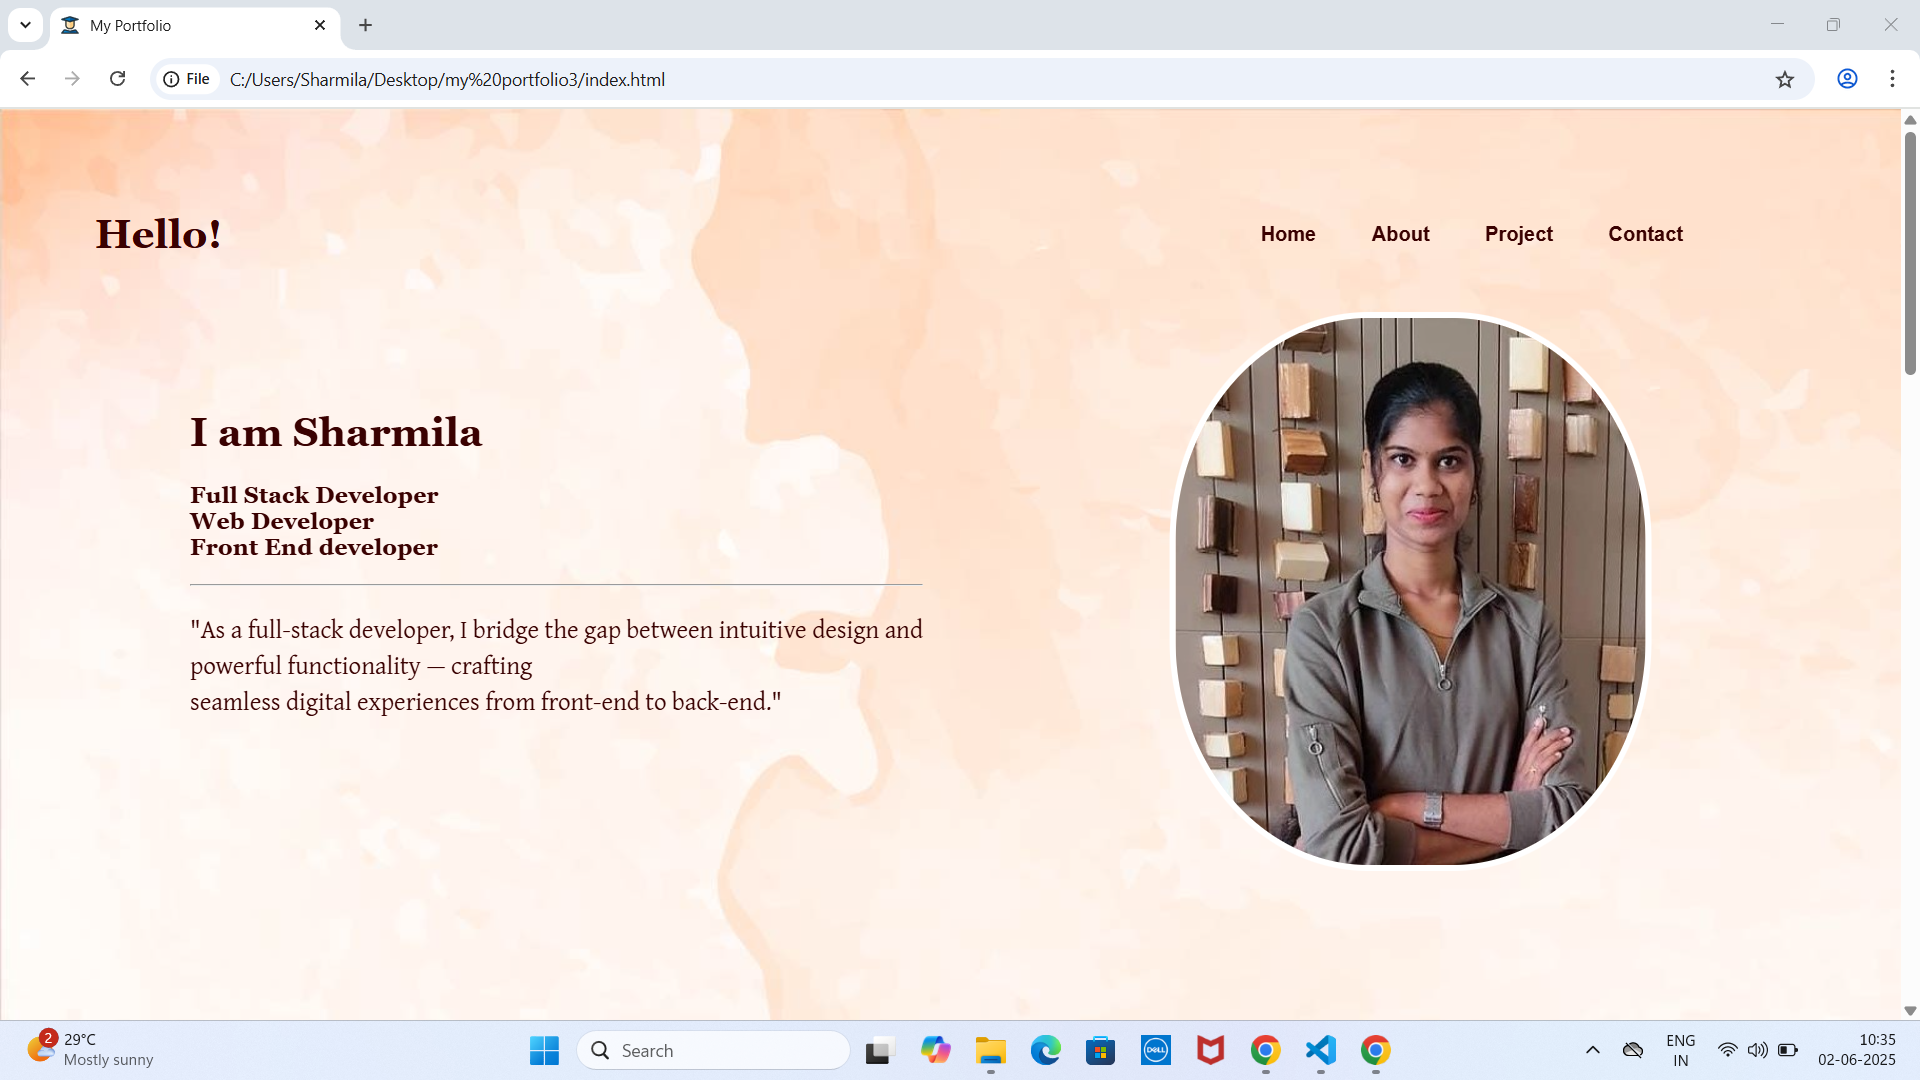
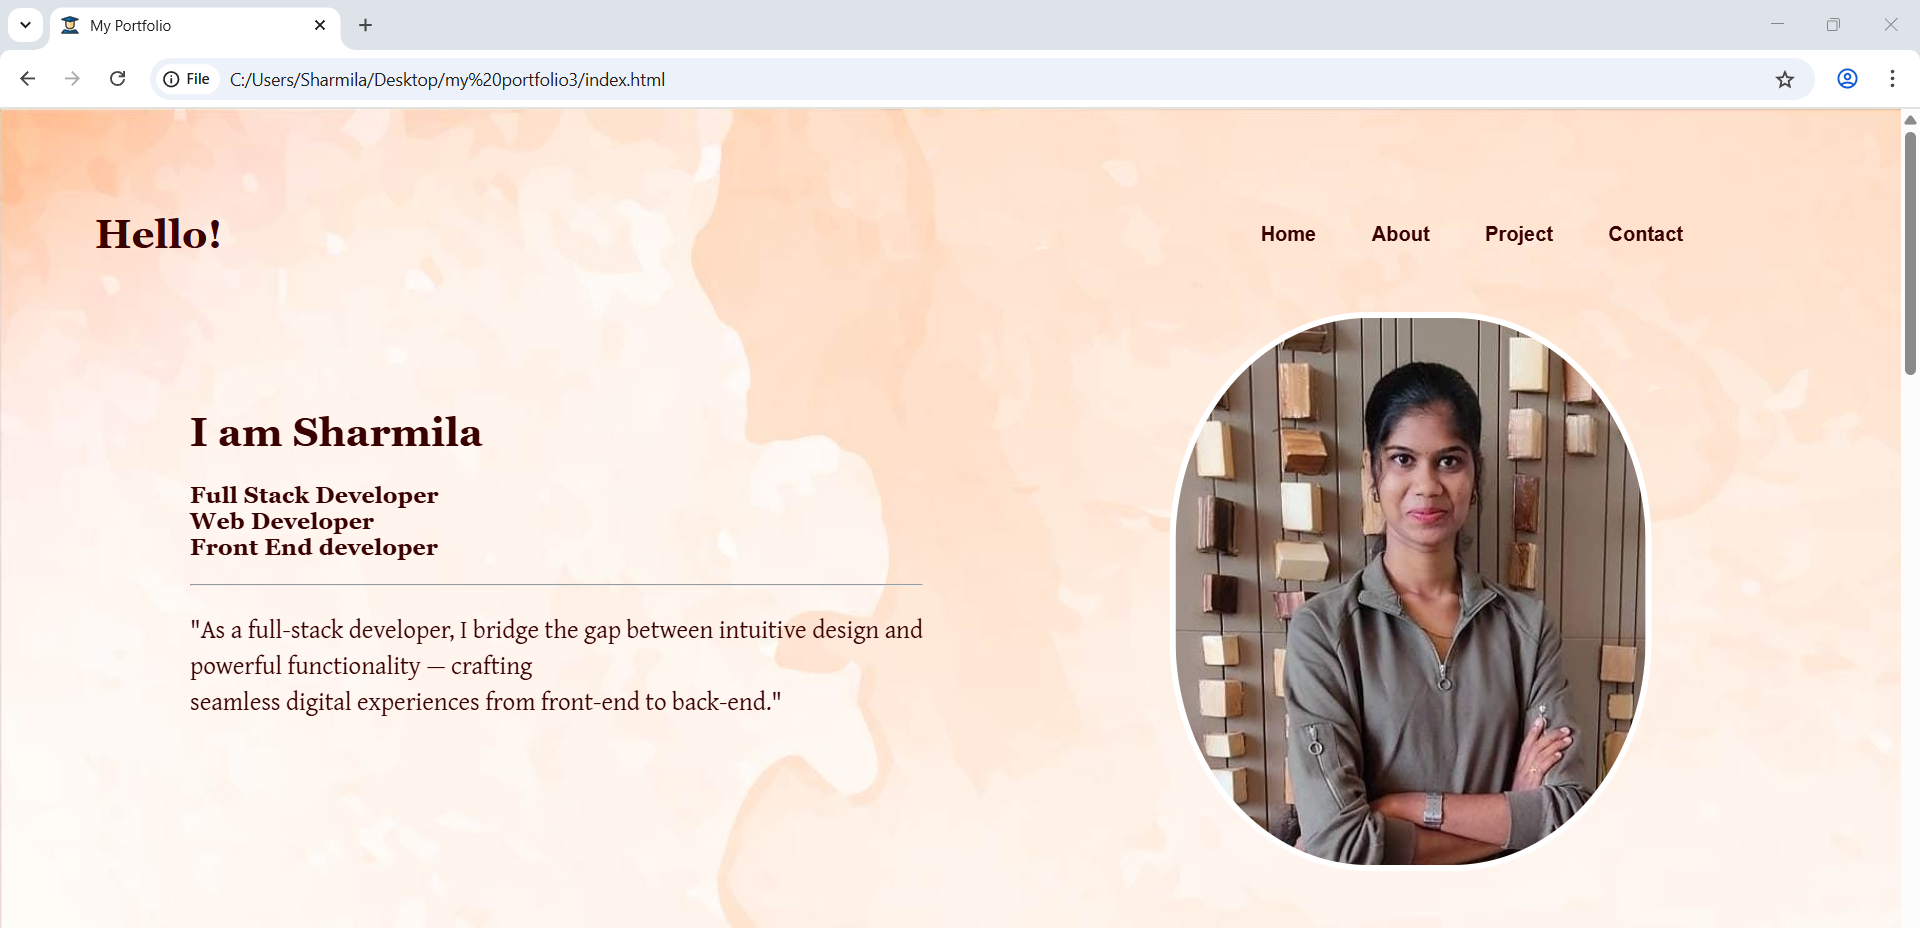
some changes

diff --git a/index.html b/index.html
@@ -30,7 +30,7 @@
                         <a class="nav-link link-light" href="#about">About</a>
                     </li>
                      <li class="nav-item">
-                        <a class="nav-link link-light" href="#skills">skills</a>
+                        <a class="nav-link link-light" href="#skills">Skills</a>
                     </li>
 
 
@@ -66,6 +66,7 @@
                    
                 <div class="mt-3">
                  <a href="#projects" class="btn btn-secondary ">Explore my work</a>
+                 <a href="#" class="btn btn-secondary ">Resume</a>
                   </div></div>
                   <div class="col-sm-3 text-center ">
                         <img src="images/pic3.jpeg" alt="" 
@@ -94,6 +95,66 @@
                 </div>
             </div>
        </section>
+       
+       <!-- skills section -->
+        <section id="skills" class=" py-5">
+            <div class="container">
+                <h2 class="text-center mb-4">My Skills</h2>
+
+                <div class="row">
+                    <!-- skill 1 -->
+                    <div class="col-md-3 ">
+                        <div class="card skill ">
+                            <h5 class="card-header bg-danger">Front-End</h5>
+                            <div class="card-body bg-danger-subtle">
+                            
+                                <p class="card-text">Html,Css,Javascript,Bootstrap</p>
+                                
+                            </div>
+                        </div>
+                    </div>
+                    <!--  -->
+
+                    <!-- skill 2 -->
+                    <div class="col-md-3">
+                        <div class="card skill ">
+                             <h5 class="card-header bg-info">Back-End</h5>
+                            <div class="card-body bg-info-subtle">
+                               
+                                <p class="card-text">MongoDB,Express.js,Node.js</p>
+                               
+                            </div>
+                        </div>
+                    </div>
+                    <!--  -->   
+                       <!-- skill 3 -->
+                    <div class="col-md-3">
+                        <div class="card skill">
+                         <h5 class="card-header bg-warning">Tools</h5>
+                            <div class="card-body bg-warning-subtle">
+                               
+                                <p class="card-text">vsd code,gitup</p>
+                              
+                            </div>
+                        </div>
+                    </div>
+                    <!--  -->
+                       <!-- skill 4 -->
+                    <div class="col-md-3">
+                        <div class="card skill">
+                         <h5 class="card-header bg-success">soft Skills</h5>
+                            <div class="card-body bg-success-subtle">
+                               
+                                <p class="card-text">TeamWork,TimeManagement,Creative </p>
+                              
+                            </div>
+                        </div>
+                    </div>
+
+                                      
+                </div>
+            </div>
+        </section>
 
        <!-- projects section -->
         <section id="projects" class=" py-5">
@@ -102,7 +163,7 @@
 
                 <div class="row">
                     <!-- Project 1 -->
-                    <div class="col-md-4">
+                   <div class="col-md-4">
                         <div class="card portfolio-item">
                             <img src="images\Screenshot 2025-06-02 103533.png" class="card-img-top rounded" alt="">
                             <div class="card-body">
@@ -112,6 +173,7 @@
                             </div>
                         </div>
                     </div>
+
                     <!--  -->
 
                     <!-- Project 2 -->
@@ -121,6 +183,18 @@
                             <div class="card-body">
                                 <h5 class="card-title">Construction Website</h5>
                                 <p class="card-text">This is My 1st Project under working process for a Construction based company</p>
+                                <a href="" class="btn btn-primary">View my projects</a>
+                            </div>
+                        </div>
+                    </div>
+                    <!--  -->   
+                       <!-- Project 3 -->
+                    <div class="col-md-4">
+                        <div class="card portfolio-item">
+                            <img src="images\foodpage.png" class="card-img-top rounded" alt="">
+                            <div class="card-body">
+                                <h5 class="card-title">restaurant Website</h5>
+                                <p class="card-text">This is a food based webpage designed by me for Gounder Mess Restaurant.</p>
                                 <a href="" class="btn btn-primary">View my projects</a>
                             </div>
                         </div>
@@ -167,11 +241,46 @@
             </div>
 
          </section>
-
-         <footer class="bg-dark text-white py-3 text-center">
+            <!-- footer -->
+         <footer class=" foote text-white py-3 text-center">
             <div class="container">
-                <p>&copy; 2025 | All rights reserved</p>
+                <div class="foot  mt-4">
+              <div>
+                 <h3 class="clr"> Contact Me</h3>
+                    <p> Sharmila M <br>Madurai </p>
+                    <a href="https://www.linkedin.com/in/sharmila-m-83b760284/" target="_blank" class="btn btn-sm btn-secondary">Linkedin</a>
+                    <a href="https://github.com/sharmi-98hub/portfolio" target="_blank" class="btn btn-sm btn-secondary">Github</a>
+                    <a href="mailto:sharmimakeupartistry@outlook.com" class="btn btn-sm btn-secondary">Mail</a>
+                   
+               
             </div>
+            <div>
+            
+            <h3 class="clr">Quik Link</h3>
+             <ul class=" navbar-nav ms-auto">
+                    <li class="nav-item ">
+                        <a class="nav-link link-light" href="#home">Home</a>
+                    </li>
+
+                    <li class="nav-item">
+                        <a class="nav-link link-light" href="#about">About</a>
+                    </li>
+                     <li class="nav-item">
+                        <a class="nav-link link-light" href="#skills">skills</a>
+                    </li>
+
+
+                    <li class="nav-item">
+                        <a class="nav-link link-light" href="#projects">Projects</a>
+                    </li>
+
+                    <li class="nav-item">
+                        <a class="nav-link link-light" href="#contact">Contact</a>
+                    </li>
+                </ul>
+                </div>
+                </div>
+                 <p>&copy; 2025 | All rights reserved</p>
          </footer>
 </body>
 </html>

diff --git a/style.css b/style.css
@@ -4,20 +4,34 @@
         }
 body{
    background-image: url(https://www.bitdegree.org/learn/storage/media/images/57bb1705-3ac9-41e3-9e97-37d4ee5771ac.o.jpg);
-   color: aliceblue;
+   color: rgb(243, 241, 242);
 }
 #home{
    height: 100vh;
    width: 100%;
    font-family:'Gill Sans';
 }
-/*.container{
-   display: flex;
-   flex-wrap: wrap;
-  
-}*/
+
 #about{
+   height: 70vh;
+   width: 100%;
+}
+#skills{
+   height: 70vh;
+   width: 100%;
+}
+#projects{
    height: 100vh;
    width: 100%;
 }
-
+.foote{
+   background-color: rgb(18, 31, 51);
+}
+.foot{
+   display:flex;
+   gap:150px;
+   justify-content: center;
+}
+.clr{
+   color: rgb(51, 44, 77);
+}
